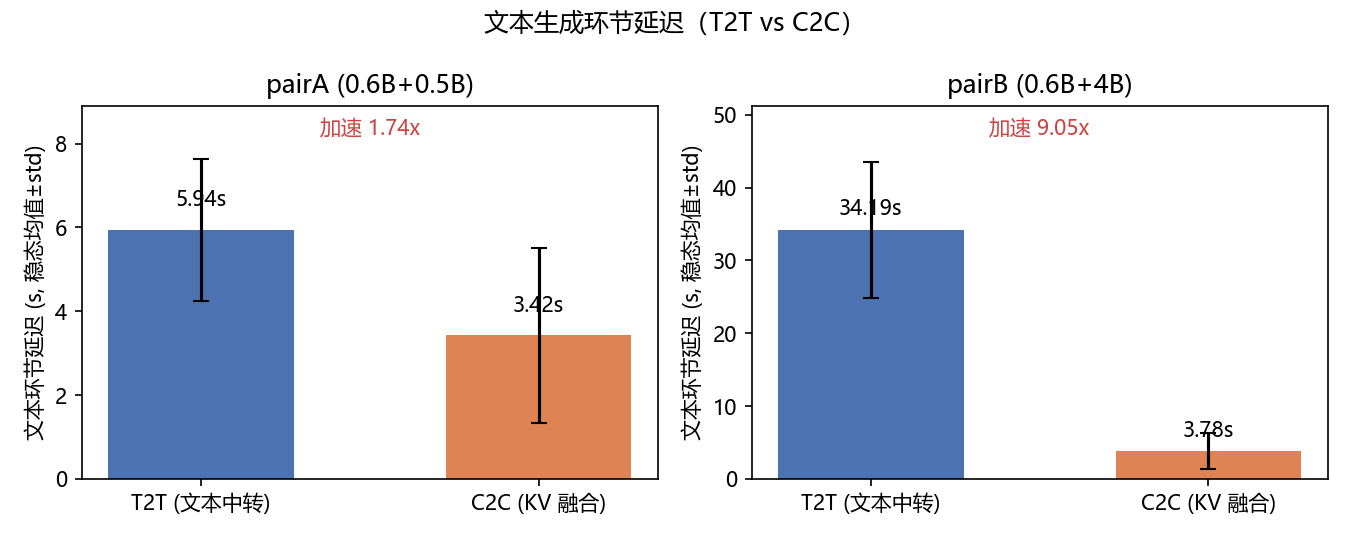
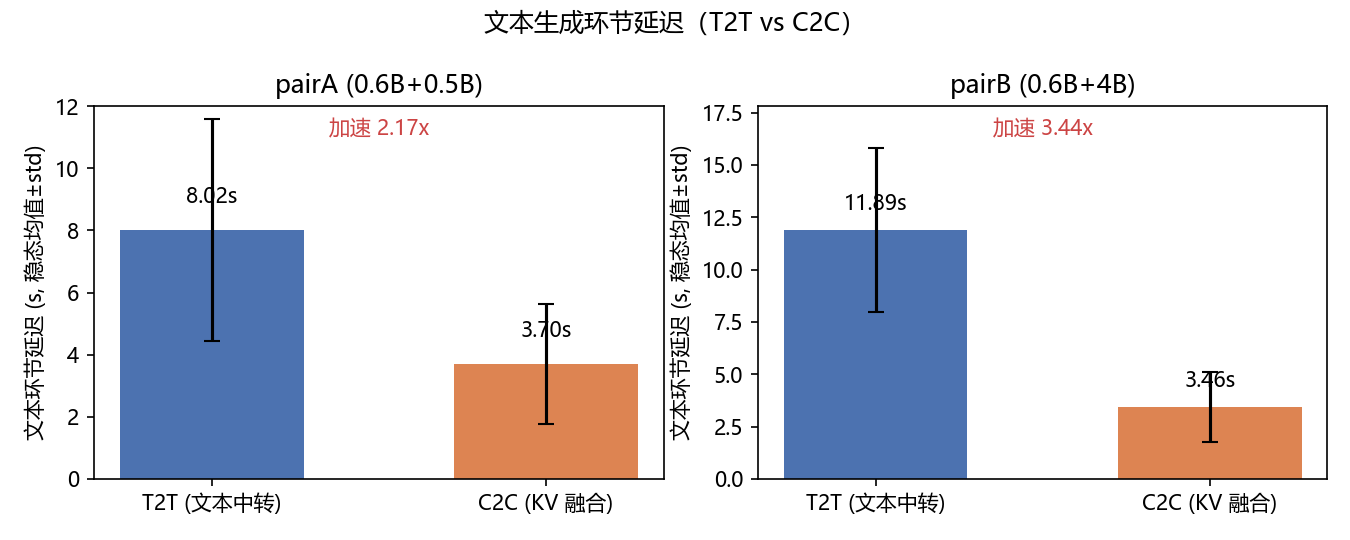
Blind round 2 results: raw significantly preferred over C2C (n=4)
- report: human-eval section filled (raw>>c2c faith p=.002 / look p=.007,
  raw~t2t and t2t~c2c n.s.; kappa not assessable, 0-2 shared items per group);
  conclusion/limitations updated to match; stale gallery figures replaced
- add votes_summary.{csv,md} (anonymized, aggregate only; raw ballots stay private)
- replace v2 gallery images with v3 degenerate set; add fig_blind.png

diff --git a/t2i/results/metrics/votes_summary.md b/t2i/results/metrics/votes_summary.md
@@ -1,0 +1,41 @@
+# 盲评汇总
+
+评估者（4）：votes_1_anon, votes_2_anon, votes_3_anon, votes_4_anon
+
+| comparison | 问题 | 有效票 | A 胜 | B 胜 | 相当 | 胜率A(排相当) | 胜率A(相当计半) | binomial p | mean κ |
+|---|---|---|---|---|---|---|---|---|---|
+| raw_vs_c2c | faith | 28 | 15 | 2 | 11 | 0.882 | 0.732 | 0.0023 | - |
+| raw_vs_c2c | look | 28 | 17 | 4 | 7 | 0.810 | 0.732 | 0.0072 | - |
+| raw_vs_t2t | faith | 28 | 10 | 4 | 14 | 0.714 | 0.607 | 0.1796 | 0.000 |
+| raw_vs_t2t | look | 28 | 11 | 8 | 9 | 0.579 | 0.554 | 0.6476 | 0.000 |
+| t2t_vs_c2c | faith | 28 | 8 | 9 | 11 | 0.471 | 0.482 | 1.0000 | 0.000 |
+| t2t_vs_c2c | look | 28 | 9 | 12 | 7 | 0.429 | 0.446 | 0.6636 | 0.000 |
+
+## 分评估者明细（A 胜 / B 胜 / 相当）
+
+| comparison | 问题 | 评估者 | A 胜 | B 胜 | 相当 |
+|---|---|---|---|---|---|
+| raw_vs_c2c | faith | votes_1_anon | 3 | 0 | 4 |
+| raw_vs_c2c | faith | votes_2_anon | 5 | 1 | 1 |
+| raw_vs_c2c | faith | votes_3_anon | 2 | 0 | 5 |
+| raw_vs_c2c | faith | votes_4_anon | 5 | 1 | 1 |
+| raw_vs_c2c | look | votes_1_anon | 3 | 1 | 3 |
+| raw_vs_c2c | look | votes_2_anon | 6 | 1 | 0 |
+| raw_vs_c2c | look | votes_3_anon | 3 | 1 | 3 |
+| raw_vs_c2c | look | votes_4_anon | 5 | 1 | 1 |
+| raw_vs_t2t | faith | votes_1_anon | 3 | 2 | 2 |
+| raw_vs_t2t | faith | votes_2_anon | 3 | 1 | 3 |
+| raw_vs_t2t | faith | votes_3_anon | 2 | 0 | 5 |
+| raw_vs_t2t | faith | votes_4_anon | 2 | 1 | 4 |
+| raw_vs_t2t | look | votes_1_anon | 3 | 3 | 1 |
+| raw_vs_t2t | look | votes_2_anon | 4 | 1 | 2 |
+| raw_vs_t2t | look | votes_3_anon | 1 | 3 | 3 |
+| raw_vs_t2t | look | votes_4_anon | 3 | 1 | 3 |
+| t2t_vs_c2c | faith | votes_1_anon | 2 | 4 | 1 |
+| t2t_vs_c2c | faith | votes_2_anon | 1 | 1 | 5 |
+| t2t_vs_c2c | faith | votes_3_anon | 2 | 1 | 4 |
+| t2t_vs_c2c | faith | votes_4_anon | 3 | 3 | 1 |
+| t2t_vs_c2c | look | votes_1_anon | 3 | 4 | 0 |
+| t2t_vs_c2c | look | votes_2_anon | 1 | 1 | 5 |
+| t2t_vs_c2c | look | votes_3_anon | 3 | 3 | 1 |
+| t2t_vs_c2c | look | votes_4_anon | 2 | 4 | 1 |
